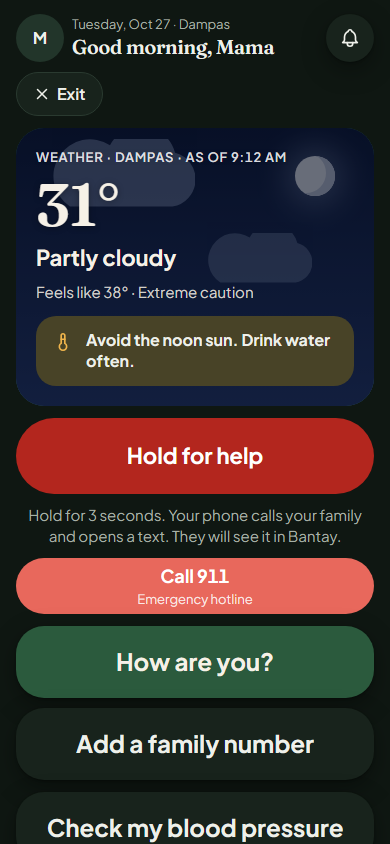
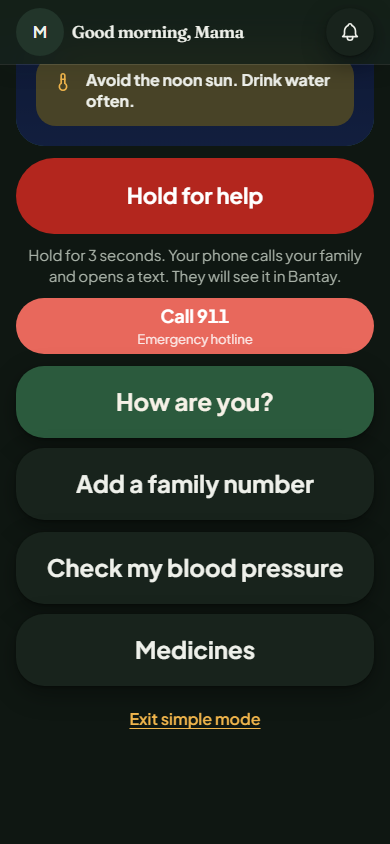
S12 lane K: simple-today shots scroll to the bottom deterministically

diff --git a/e2e/s12-core.auth.spec.ts b/e2e/s12-core.auth.spec.ts
@@ -64,10 +64,10 @@ const hhmm = (d: Date) => `${String(d.getHours()).padStart(2, '0')}:${String(d.g
 const at = (h: number, m = 0) => new Date(2026, 9, 27, h, m).toISOString()
 const shot = (page: Page, name: string, scheme: string) => (SHOTS ? page.screenshot({ path: `${SHOTS}/${name}-${scheme}.png` }) : Promise.resolve(undefined))
 // Settled UI before a shot: fonts loaded and every finite reveal animation finished (the sky loops forever) (the weather card fades in).
-const settle = async (page: Page) => { // fonts loaded, finite animations done and the scroll position held still for two reads (smooth scroll)
+const settle = async (page: Page, bottom = false) => { // fonts loaded, finite animations done and the scroll position held still for two reads (smooth scroll)
   let last = -1
   await expect.poll(async () => {
-    const [y, ready] = await page.evaluate(() => [Math.round(window.scrollY), document.fonts.status === 'loaded' && document.getAnimations().every((x) => x.effect?.getComputedTiming().iterations === Infinity || x.playState !== 'running')] as const)
+    const [y, ready] = await page.evaluate((end) => { if (end) window.scrollTo({ top: document.scrollingElement!.scrollHeight, behavior: 'instant' }); return [Math.round(window.scrollY), document.fonts.status === 'loaded' && document.getAnimations().every((x) => x.effect?.getComputedTiming().iterations === Infinity || x.playState !== 'running')] as const }, bottom)
     const still = y === last
     last = y
     return still && ready
@@ -167,7 +167,7 @@ for (const scheme of ['light', 'dark'] as const) {
     await bp.scrollIntoViewIfNeeded()
     await expect(bp).toBeVisible()
     await expect(page.getByRole('link', { name: 'Medicines' })).toHaveCount(0) // the dose card is the medicine entry
-    await settle(page)
+    await settle(page, true)
     await shot(page, 'simple-today', scheme)
     await bp.click()
     await expect(page.getByRole('dialog')).toBeVisible()
@@ -180,7 +180,7 @@ for (const scheme of ['light', 'dark'] as const) {
     await link.scrollIntoViewIfNeeded()
     await expect(link).toHaveAttribute('href', '#health/meds')
     await expect(page.getByRole('button', { name: 'Check my blood pressure' })).toBeVisible()
-    await settle(page)
+    await settle(page, true)
     await shot(page, 'simple-today-calm', scheme)
   })
 }
